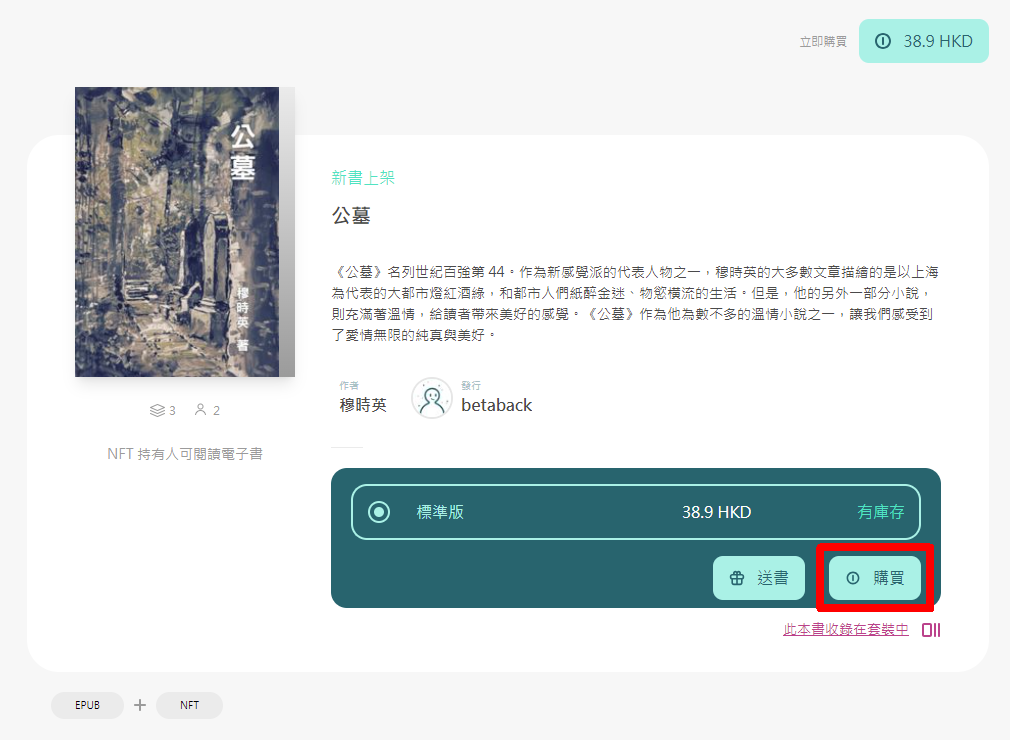
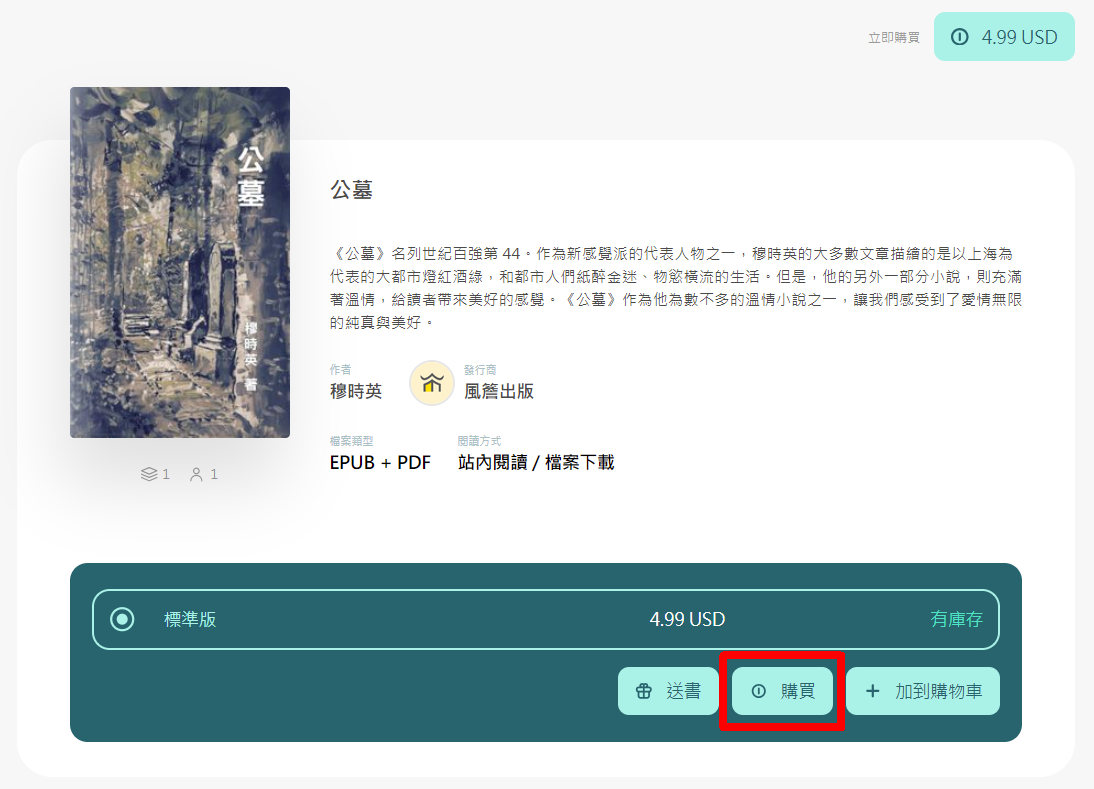
GITBOOK-4688: 購買電子書

diff --git a/depub/ebook/README.md b/depub/ebook/README.md
@@ -8,6 +8,16 @@ description: 如何購買電子書
 
 ## 步驟一：開始購買 <a href="#step-1" id="step-1"></a>
 
+你可以將書加入購物車或直接購買：
+
+### 加入購物車
+
+在作品頁面點「加入購物車」。
+
+<figure><img src="../../.gitbook/assets/Collect NFT Book 1a.png" alt=""><figcaption><p>點「加入購物車」</p></figcaption></figure>
+
+### 直接購買
+
 在作品頁面上點「購買」。
 
 <figure><img src="../../.gitbook/assets/Collect NFT Book 1.png" alt=""><figcaption><p>點「購買」</p></figcaption></figure>
@@ -18,13 +28,23 @@ description: 如何購買電子書
 
 <figure><img src="../../.gitbook/assets/Collect NFT Book 2.png" alt=""><figcaption><p>額外支持作者</p></figcaption></figure>
 
-## 步驟三：信用卡付款 <a href="#step-3" id="step-3"></a>
+## 步驟三：加購好書 <a href="#step-3" id="step-3"></a>
 
-出現 Stripe 頁面，輸入電郵及信用卡資料後點「Pay」。如有額外打賞作者，將顯示 Extra Tip。
+彈出熱銷好書頁面，可點「加購」選擇加購該書。
+
+<figure><img src="../../.gitbook/assets/Collect NFT Book 2a.png" alt=""><figcaption><p>點「加購」</p></figcaption></figure>
+
+## 步驟四：信用卡付款 <a href="#step-4" id="step-4"></a>
+
+如選擇加入購物車，點頁面右上角購物車出現購物明細，確認無誤後點「以信用卡結帳」；如直接購買則直接跳轉至 Stripe 頁面。
+
+<figure><img src="../../.gitbook/assets/Collect NFT Book 2b.png" alt=""><figcaption></figcaption></figure>
+
+&#x20;在 Stripe 頁面，輸入電郵及信用卡資料後點「Pay」。如有額外打賞作者，將顯示 Extra Tip。
 
 <figure><img src="../../.gitbook/assets/Collect NFT Book 3.png" alt=""><figcaption><p>在 Stripe 付款頁面輸入資料</p></figcaption></figure>
 
-## 步驟四：成功購買電子書 <a href="#step-4" id="step-4"></a>
+## 步驟五：成功購買電子書 <a href="#step-5" id="step-5"></a>
 
 彈出感謝你的支持與購買頁面，點「開始領取我的電子書」領取電子書。與此同時你的電郵亦會收到領書電郵。
 
@@ -32,7 +52,7 @@ description: 如何購買電子書
 
 <figure><img src="../../.gitbook/assets/Collect NFT Book 5.png" alt=""><figcaption><p>收到電郵過知</p></figcaption></figure>
 
-## 步驟五：連結 Liker Land 帳戶 <a href="#step-5" id="step-5"></a>
+## 步驟六：連結 Liker Land 帳戶
 
 點「使用信箱註冊」或「或以其他方式登入」註冊或登入 Liker Land 帳戶。
 
@@ -44,19 +64,19 @@ description: 如何購買電子書
 [register](../../user-guide/liker-id/register/)
 {% endcontent-ref %}
 
-## 步驟六：確認錢包地址 <a href="#step-6" id="step-6"></a>
+## 步驟七：確認錢包地址
 
 在此書將新增至以下帳戶中頁面出現錢包地址，確認無誤後點「確認」。你也可以隨時到「我的書架」查看錢包地址是否正確。
 
 <figure><img src="../../.gitbook/assets/Collect NFT Book 7.png" alt=""><figcaption><p>點「確認」確認錢包地址</p></figcaption></figure>
 
-## 步驟七：留言給作者 <a href="#step-7" id="step-7"></a>
+## 步驟八：留言給作者 <a href="#step-8" id="step-8"></a>
 
 輸入留給作者的說話，完成後點「確認」。
 
 <figure><img src="../../.gitbook/assets/Collect NFT Book 8.png" alt=""><figcaption><p>輸入留給作者的說話再點「確認」</p></figcaption></figure>
 
-## 步驟八：成功領取電子書 <a href="#step-8" id="step-8"></a>
+## 步驟九：成功領取電子書 <a href="#step-9" id="step-9"></a>
 
 出現你已成功領取電子書頁面，你也可以點「檢視收藏」查看已購買的電子書。
 
@@ -64,13 +84,13 @@ description: 如何購買電子書
 
 <figure><img src="../../.gitbook/assets/Collect NFT Book 10.png" alt=""><figcaption><p>到我的書架查看收藏</p></figcaption></figure>
 
-## 步驟九：閱讀電子書 <a href="#read-ebook" id="read-ebook"></a>
+## 步驟十：閱讀電子書 <a href="#read-ebook" id="read-ebook"></a>
 
 用戶可點「打開書本」打開其中一種格式的電子書直接閱讀。
 
 <figure><img src="../../.gitbook/assets/Collect NFT Book 11.png" alt=""><figcaption><p>打開其中一種格式的 NFT 電子書直接閱讀</p></figcaption></figure>
 
-## 步驟十：下載電子書檔 <a href="#download-ebook" id="download-ebook"></a>
+## 步驟十一：下載電子書檔 <a href="#download-ebook" id="download-ebook"></a>
 
 如所購買電子書的作者容許下載電子書檔案，點右上角下載圖示即可下載書檔。
 

diff --git a/depub/ebook/gift.md b/depub/ebook/gift.md
@@ -33,3 +33,15 @@ description: 贈書給親朋好友
 與此收禮者會收到電郵過知。當他/她領書後，你也會收到電郵通知。
 
 <figure><img src="../../.gitbook/assets/Gift 5.png" alt=""><figcaption><p>收到電郵過知</p></figcaption></figure>
+
+## 步驟五：閱讀電子書 <a href="#read-ebook" id="read-ebook"></a>
+
+領書後可點「打開書本」打開其中一種格式的電子書直接閱讀。
+
+<figure><img src="../../.gitbook/assets/Collect NFT Book 11.png" alt=""><figcaption><p>打開其中一種格式的 NFT 電子書直接閱讀</p></figcaption></figure>
+
+## 步驟六：下載電子書檔 <a href="#download-ebook" id="download-ebook"></a>
+
+如所購買電子書的作者容許下載電子書檔案，點右上角下載圖示即可下載書檔。
+
+<figure><img src="../../.gitbook/assets/Collect NFT Book 12.png" alt=""><figcaption><p>下載書檔</p></figcaption></figure>
